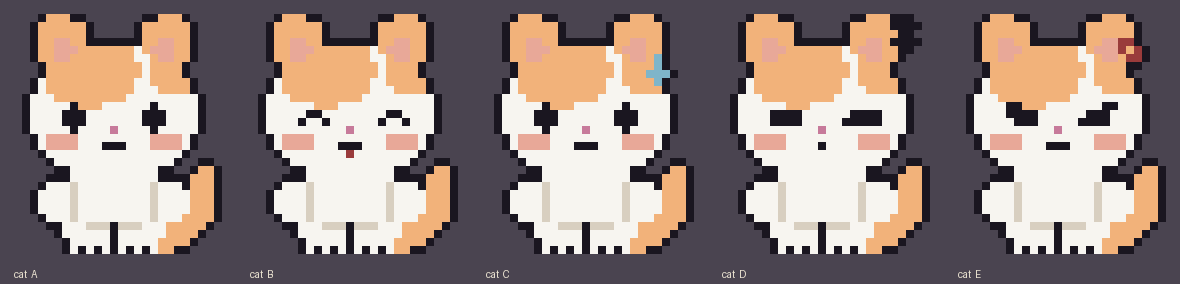
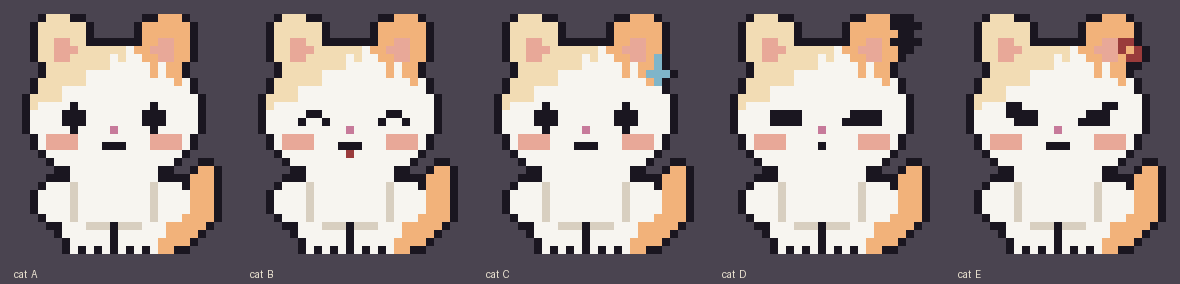
White cat: redo patches (cream left patch with diagonal ragged edge, peach right patch, two-tone ears)
Claude-Session: https://claude.ai/code/session_01FPZSaKiVNU2zED737yZX4w

diff --git a/tools/gen_cutecat.py b/tools/gen_cutecat.py
@@ -63,11 +63,18 @@ def cat2(expr):
     c.line(12, 26.6, 12, 29.8, 1, ch='k')                                                                   # 두 다리 사이 검은 선
     for x in (8, 10, 14, 16): c.put(x, 29.4, 'k')                                                          # 발가락 선
     c.line(7.2, 21.4, 7.2, 25.2, 1, ch='w'); c.line(16.8, 21.4, 16.8, 25.2, 1, ch='w')                    # 앞발과 몸통 경계의 옅은 선
-    c.ell(5.6, 3.6, 3.3, 3.8, 'P'); c.ell(18.4, 3.6, 3.3, 3.8, 'P'); c.ell(4.8, 1.6, 2.0, 2.0, 'P'); c.ell(19.2, 1.6, 2.0, 2.0, 'P')   # 둥근 귀
+    c.ell(5.6, 3.6, 3.3, 3.8, 'q'); c.ell(18.4, 3.6, 3.3, 3.8, 'P'); c.ell(4.8, 1.6, 2.0, 2.0, 'q'); c.ell(19.2, 1.6, 2.0, 2.0, 'P')   # 둥근 귀(왼쪽 크림, 오른쪽 살구)
     c.ell(5.8, 3.8, 1.3, 1.7, 'i'); c.ell(18.2, 3.8, 1.3, 1.7, 'i')
     c.ell(12, 12.0, 10.4, 8.4, 'W')
-    patch(c, 9.0, 6.6, 6.2, 4.6, 'P')                                                                       # 머리 위쪽(왼쪽 치우침)의 살구색 얼룩
-    patch(c, 19.5, 6.0, 3.4, 3.4, 'P')
+    for y in range(30):                                                                                    # 얼룩: 왼쪽은 연한 크림, 오른쪽은 진한 살구, 경계는 비스듬하고 울퉁불퉁하게
+        for x in range(26):
+            if c.g[y][x] != 'W': continue
+            wob = 0.8 * ((x * 7 + y * 3) % 3 - 1)
+            if y < 10.6 - (x - 3) * 0.55 + wob and x < 13.5: c.g[y][x] = 'q'                               # 왼쪽 큰 얼룩(눈 위로 흘러내림)
+            elif y < 6.0 + (x - 16) * 0.35 + wob and x >= 14.5: c.g[y][x] = 'P'                            # 오른쪽 살구색 얼룩
+    for y in range(8, 11):                                                                                 # 왼쪽 눈 옆으로 늘어진 작은 얼룩 끝
+        for x in range(2, 6):
+            if c.g[y][x] == 'W': c.g[y][x] = 'q'
     for sx in (-1, 1): c.ell(12 + sx * 6.8, 15.6, 2.2, 1.4, 'i')                                            # 분홍 볼터치
     c.put(12, 14.0, 'p')
     if expr == 'A':
